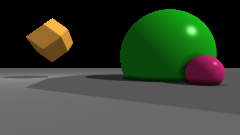
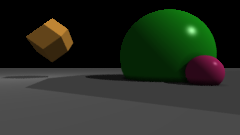
tidied multithreading and monitoring

diff --git a/src/multithreadedscene.cpp b/src/multithreadedscene.cpp
@@ -14,14 +14,26 @@ RGBImage *MultithreadedScene::GetImage(unsigned resolution_width, unsigned resol
 
     cam.InitialiseResolution(resolution_width, resolution_height);
 
-    unsigned total_pixels = resolution_height * resolution_width;
-    monitor->Initialise(total_pixels);
-
     std::thread threads[thread_count];
 
-    TaskQueue queue(sample_rates);
+    TaskQueue<PixelTask> queue(monitor);
 
-    unsigned total_tasks = queue.Size();
+    for (size_t i = 0; i < sample_rates.size(); ++i)
+    {
+        for (size_t j = 0; j < sample_rates[0].size(); ++j)
+        {
+            if (sample_rates[i][j] > 1)
+            {
+                PixelTask task;
+                task.pixel_x = i;
+                task.pixel_y = j;
+                task.sample_rate = sample_rates[i][j];
+                queue.Push(task);
+            }
+        }
+    }
+
+    queue.InitailiseMonitor();
 
     for (unsigned i = 0; i < thread_count; ++i)
     {
@@ -33,19 +45,17 @@ RGBImage *MultithreadedScene::GetImage(unsigned resolution_width, unsigned resol
         threads[i].join();
     }
 
-    std::cout << queue.Size();
-
     return image;
 }
 
-void MultithreadedScene::ThreadTask(TaskQueue &queue, ThreadSafeImage *image, SamplingMethod method)
+void MultithreadedScene::ThreadTask(TaskQueue<PixelTask> &queue, ThreadSafeImage *image, SamplingMethod method)
 {
-    TaskQueue::Task task;
+    PixelTask task;
 
     while (queue.TryDequeue(task))
     {
         std::vector<Ray> rays = method == SampledScene::Random ? cam.GetRandomRaySamples(task.pixel_x, task.pixel_y, task.sample_rate)
-                                                            : cam.GetJitterRaySamples(task.pixel_x, task.pixel_y, task.sample_rate);
+                                                               : cam.GetJitterRaySamples(task.pixel_x, task.pixel_y, task.sample_rate);
 
         image->SetPixel(task.pixel_x, task.pixel_y, GetRayAverage(rays));
     }

diff --git a/include/multithreadedscene.h b/include/multithreadedscene.h
@@ -6,6 +6,7 @@
 #include <mutex>
 #include "adaptivesampledscene.h"
 #include "threadsafeimage.h"
+#include "taskqueue.h"
 
 class MultithreadedScene : public AdaptiveSampledScene
 {
@@ -18,61 +19,14 @@ protected:
   virtual RGBImage *GetImage(unsigned resolution_width, unsigned resolution_height) override;
   unsigned thread_count;
 
-  class TaskQueue
+  struct PixelTask
   {
-  public:
-    struct Task
-    {
-      unsigned pixel_x;
-      unsigned pixel_y;
-      unsigned sample_rate;
-    };
-
-    TaskQueue(std::vector<std::vector<unsigned>> &sample_rates)
-    {
-      for (size_t i = 0; i < sample_rates.size(); ++i)
-      {
-        for (size_t j = 0; j < sample_rates[0].size(); ++j)
-        {
-          if (sample_rates[i][j] > 1)
-          {
-            Task task;
-            task.pixel_x = i;
-            task.pixel_y = j;
-            task.sample_rate = sample_rates[i][j];
-            task_queue.push(task);
-          }
-        }
-      }
-    }
-
-    ~TaskQueue(){};
-
-    bool TryDequeue(Task &task)
-    {
-      std::lock_guard<std::mutex> lock(m);
-      if (task_queue.empty())
-      {
-        return false;
-      }
-
-      task = std::move(task_queue.front());
-      task_queue.pop();
-      return true;
-    };
-
-    unsigned Size()
-    {
-      return task_queue.size();
-    };
-
-  private:
-    std::mutex m;
-    std::queue<Task> task_queue;
-    TaskQueue();
+    unsigned pixel_x;
+    unsigned pixel_y;
+    unsigned sample_rate;
   };
 
-  void ThreadTask(TaskQueue &queue, ThreadSafeImage *image, SamplingMethod method);
+  void ThreadTask(TaskQueue<PixelTask> &queue, ThreadSafeImage *image, SamplingMethod method);
 };
 
 #endif

diff --git a/include/scene.h b/include/scene.h
@@ -8,6 +8,7 @@
 #include "camera.h"
 #include "light.h"
 #include "lightingmodel.h"
+#include "taskmonitor.h"
 
 class Scene
 {
@@ -44,35 +45,6 @@ public:
   bool InShadow(Ray &lightray) const;
 
 protected:
-  class Monitor
-  {
-  public:
-    Monitor(double status_increment = 0.05) : status_increment(status_increment){};
-
-    void Initialise(unsigned total_pixels)
-    {
-      this->total_pixels = total_pixels;
-      current_pixel = 0;
-      current_increment = status_increment;
-    };
-
-    void Increment()
-    {
-      current_pixel++;
-      if ((double)current_pixel / (double)total_pixels >= current_increment)
-      {
-        std::cout << current_increment * 100 << "% done\n";
-        current_increment += status_increment;
-      }
-    };
-
-  private:
-    double status_increment;
-    unsigned total_pixels;
-    unsigned current_pixel;
-    double current_increment;
-  };
-
   std::shared_ptr<RayIntersect> GetClosestIntersect(const Ray &ray) const;
   lin_alg::Vector<3> CalculateColourAtIntersect(const RayIntersect &intersect) const;
   lin_alg::Vector<3> GetColour(const Ray &ray) const;
@@ -85,7 +57,7 @@ protected:
   lin_alg::Vector<3> background;
   LightingModel *lighting_model;
 
-  Monitor *monitor = nullptr;
+  TaskMonitor *monitor = nullptr;
 
   Scene(){};
 };

diff --git a/src/main.cpp b/src/main.cpp
@@ -65,17 +65,17 @@ int main()
 
     Plane *plane = new Plane({0, 1, 0}, {0, -0.5, 0}, {0.4, 0.4, 0.4});
 
-    DirectionalLight *light = new DirectionalLight({1, 1, 0.5}, 0.7);
-    PointLight *light2 = new PointLight({-4.2, 1.8, -2}, 0.5);
+    DirectionalLight *light = new DirectionalLight({1, 1, 0.5}, 0.6);
+    PointLight *light2 = new PointLight({-4.2, 1.8, -2}, 0.4);
 
     BoundingSphere *meshbound = new BoundingSphere(mesh);
 
     //BoundingSphere *spherebound1 = new BoundingSphere(meshbound, sphere3);
     BoundingSphere *spherebound2 = new BoundingSphere(sphere1, sphere2);
 
-    MultithreadedScene scene(cam, {0, 0, 0}, 150, SampledScene::Jitter, 5);
+    MultithreadedScene scene(cam, {0, 0, 0}, 250, SampledScene::Jitter, 7);
 
-    LightingModel *model = new AmbientOcclusionLightingModel(0.2, 15, new BasicLightingModel(0.2, 200), scene);
+    LightingModel *model = new AmbientOcclusionLightingModel(0.2, 25, new BasicLightingModel(0.1, 200), scene);
 
     scene.AddObject(meshbound);
     scene.AddObject(spherebound2);
@@ -87,5 +87,5 @@ int main()
     //  scene.AddAmbientOcclusion(0.3, 50);
 
     const char *filename = (".\\out\\render.png");
-    scene.Render(filename, 1920/8, 1080/8);
+    scene.Render(filename, 1920, 1080);
 };

diff --git a/include/taskqueue.h b/include/taskqueue.h
@@ -1,0 +1,63 @@
+#ifndef INCLUDE_TASKQUEUE_H_
+#define INCLUDE_TASKQUEUE_H_
+
+#include "taskmonitor.h"
+
+// A thread safe job queue for feeding parrallel threads.
+
+template <typename T>
+class TaskQueue
+{
+  public:
+    TaskQueue() : monitor(nullptr) {};
+
+    TaskQueue(TaskMonitor* monitor) : monitor(monitor){};
+
+    ~TaskQueue(){};
+
+    bool TryDequeue(T &task)
+    {
+        std::lock_guard<std::mutex> lock(m);
+        if (queue.empty())
+        {
+            return false;
+        }
+
+        task = std::move(queue.front());
+        queue.pop();
+
+        if (monitor)
+        {
+            monitor->Increment();
+        }
+
+        return true;
+    };
+
+    void Push(T task)
+    {
+        std::lock_guard<std::mutex> lock(m);
+        queue.push(task);
+    }
+
+    void InitailiseMonitor()
+    {
+        if (monitor)
+        {
+            monitor->Initialise(this->Size());
+        }
+    }
+
+    unsigned Size()
+    {
+        return queue.size();
+    };
+
+  private:
+    TaskMonitor *monitor;
+    std::mutex m;
+    std::queue<T> queue;
+
+};
+
+#endif

diff --git a/include/taskmonitor.h b/include/taskmonitor.h
@@ -1,4 +1,42 @@
 #ifndef INCLUDE_TASKMONITOR_H_
 #define INCLUDE_TASKMONITOR_H_
 
+#include <iostream>
+
+class TaskMonitor
+{
+  public:
+    TaskMonitor(double update_increment = 0.05) : update_increment(update_increment){};
+    ~TaskMonitor(){};
+
+    TaskMonitor(TaskMonitor &obj)
+    {
+        total_job_count = obj.total_job_count;
+        update_increment = obj.update_increment;
+    }
+
+    void Initialise(unsigned job_count)
+    {
+        total_job_count = job_count;
+        current_job_number = 0;
+        current_increment = update_increment;
+    };
+
+    void Increment()
+    {
+        current_job_number++;
+        if ((double)current_job_number / (double)total_job_count >= current_increment)
+        {
+            std::cout << current_increment * 100 << "% done\n";
+            current_increment += update_increment;
+        }
+    };
+
+  private:
+    double update_increment;
+    unsigned total_job_count;
+    unsigned current_job_number;
+    double current_increment;
+};
+
 #endif

diff --git a/src/adaptivesampledscene.cpp b/src/adaptivesampledscene.cpp
@@ -34,7 +34,7 @@ RGBImage *AdaptiveSampledScene::GetSampleRates(unsigned resolution_width, unsign
     // Blur
     copy->ApplyKernel(kernel2, 1.0 / 5.0, 6);
 
-    copy->Encode(".\\out\\edges.png");
+    //copy->Encode(".\\out\\edges.png");
 
     // Pre-allocate
     sample_rates.resize(resolution_width);

diff --git a/src/scene.cpp b/src/scene.cpp
@@ -100,5 +100,5 @@ lin_alg::Vector<3> Scene::GetColour(const Ray &ray) const
 
 void Scene::AddMonitoring()
 {
-    this->monitor = new Monitor();
+    this->monitor = new TaskMonitor();
 };
